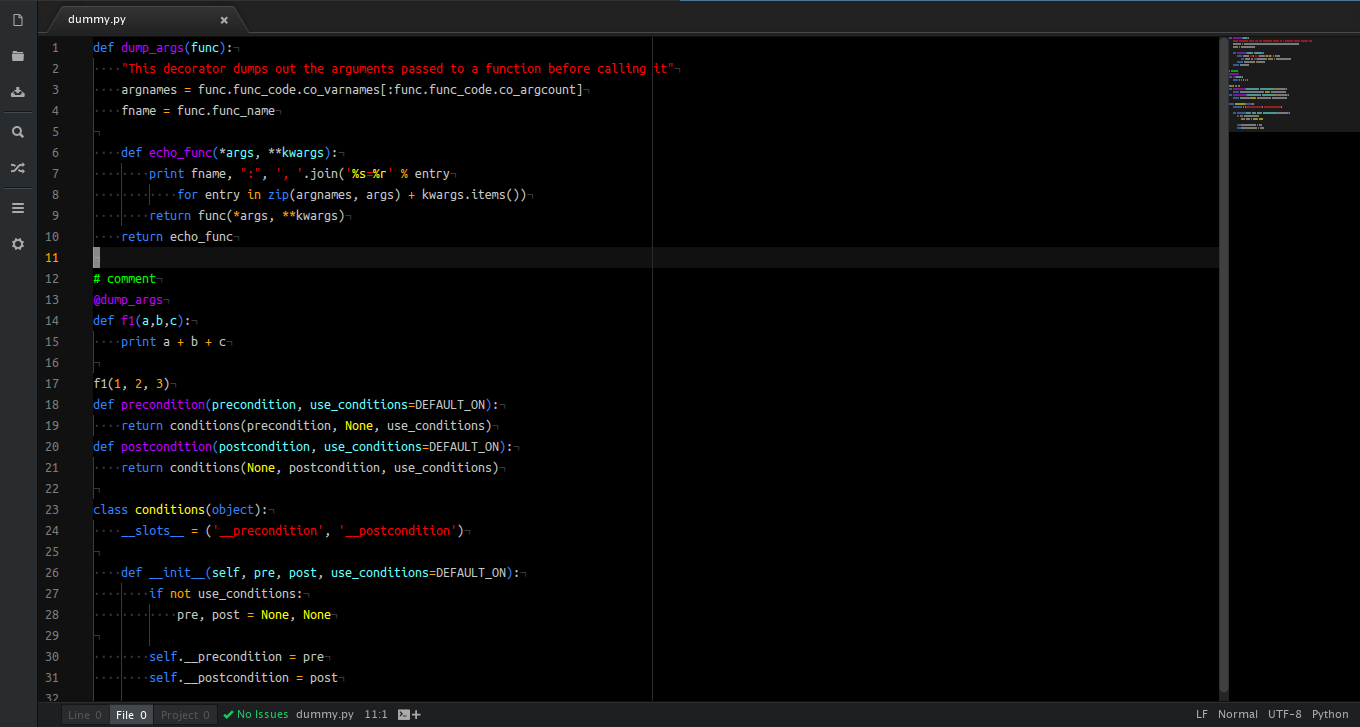
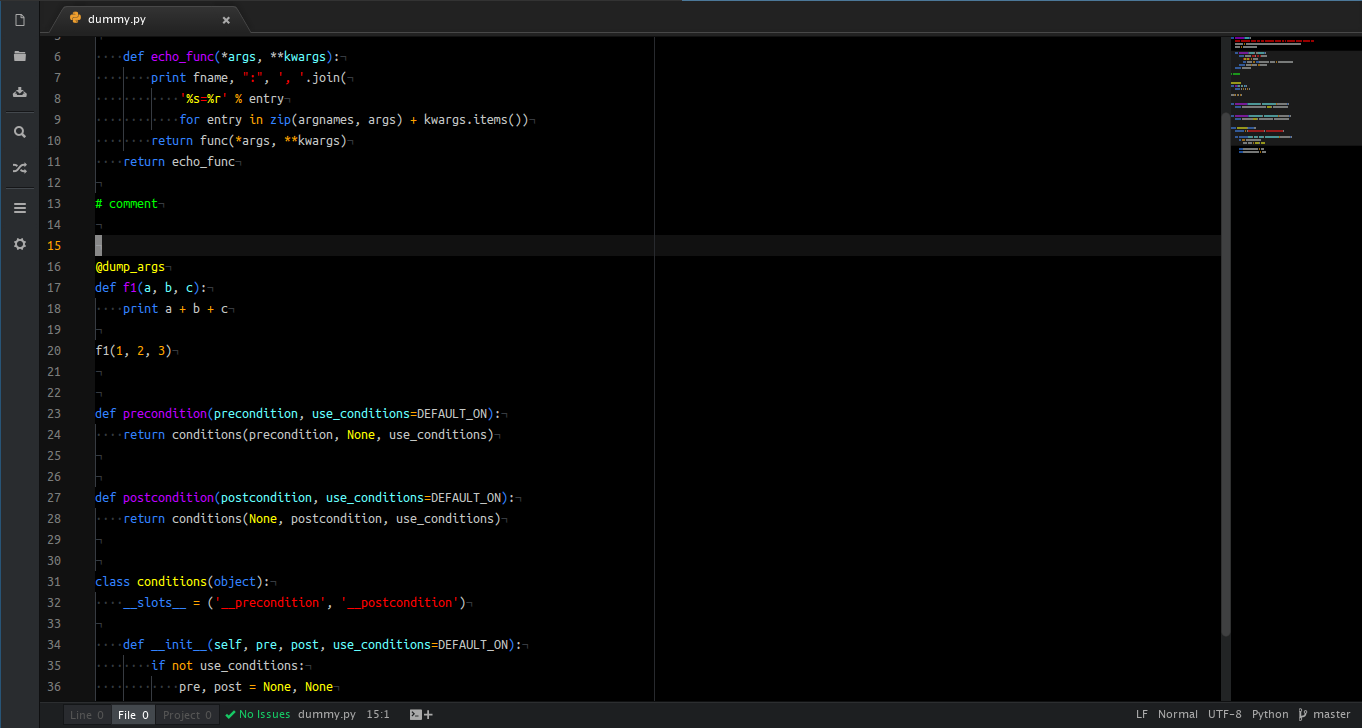
changed python decorator; updated changelog, README, and many

diff --git a/styles/base.less b/styles/base.less
@@ -216,6 +216,10 @@ atom-text-editor .search-results .marker.current-result .region,
 .entity {
     &.name.function {
         color: @purple;
+
+        &.decorator {
+            color: @yellow;
+        }
     }
     &.name.type {
         color: @yellow;

diff --git a/CHANGELOG.md b/CHANGELOG.md
@@ -1,33 +1,53 @@
+# Changelog
+
+## Current version
+
+### 1.6.3
+
+*   changed python decorator color
+*   cleaned-up and formatted changelog
+*   updated README
+*   updated screenshot for python
+
 ### 1.6.2
-* Updated changelog.md
-* updated: php, css, scss, less syntax highlighting
-* minor enhancements
-* added more screenshots.
+
+*   Updated changelog.md
+*   updated: php, css, scss, less syntax highlighting
+*   minor enhancements
+*   added more screenshots.
 
 ### 1.6.1
-* No changes.
+
+*   No changes.
 
 ### 1.6.0
-* fixed highlighting for java, cpp, cpp header
-* improved highlighting for python, javascript
+
+*   fixed highlighting for java, cpp, cpp header
+*   improved highlighting for python, javascript
 
 ### 1.5.0
-* fixed html tag `<>` color,
-* regex string color
-* string escape color
-* minor enchancements
+
+*   fixed html tag `<>` color,
+*   regex string color
+*   string escape color
+*   minor enchancements
 
 ### 1.4.0
-* new: cursor line.
+
+*   new: cursor line.
 
 ### 1.3.0
-* fix: html syntax highlighting.
+
+*   fix: html syntax highlighting.
 
 ### 1.2.0
-* No changes.
+
+*   No changes.
 
 ### 1.1.0
-* color fix: html tags.
+
+*   color fix: html tags.
 
 ### 1.0.0 - First Release
-* Initial release.
+
+*   Initial release.

diff --git a/README.md b/README.md
@@ -3,4 +3,15 @@
 Classic color syntax (Bright). Nice match with `Atom Dark`.
 
 ## Screenshots
-Please check [here](screenshots).
+
+Please check [here](screenshots) Or:
+
+*   [bash](screenshots/atom-cbs-dummy-bash.png),
+*   [cpp](screenshots/atom-cbs-dummy-cpp.png),
+*   [html](screenshots/atom-cbs-dummy-html.png),
+*   [java](screenshots/atom-cbs-dummy-java.png),
+*   [javascript](screenshots/atom-cbs-dummy-js.png),
+*   [php](screenshots/atom-cbs-dummy-php.png),
+*   [python](screenshots/atom-cbs-dummy-python.png),
+*   [ruby](screenshots/atom-cbs-dummy-ruby.png) and
+*   [sql](screenshots/atom-cbs-dummy-sql.png).

diff --git a/LICENSE.md b/LICENSE.md
@@ -1,4 +1,4 @@
-Copyright (c) 2015 La Min Ko
+Copyright (c) 2016 La Min Ko
 
 Permission is hereby granted, free of charge, to any person obtaining
 a copy of this software and associated documentation files (the
